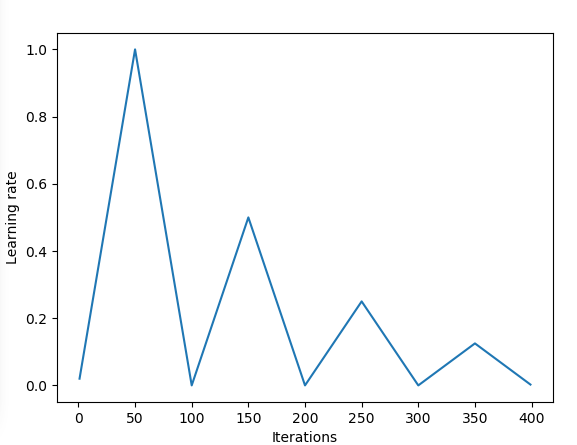
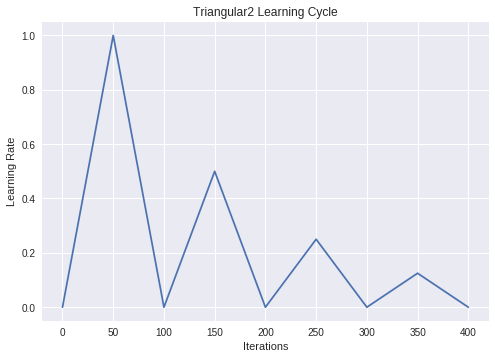
Create beautiful learning rate plots

Changed region(s): [[0.0, 0.0, 0.9697, 1.0], [0.303, 0.6435, 0.3636, 0.8579], [0.3636, 0.6128, 0.3939, 0.7354]]

diff --git a/chapters/02-Literature.tex b/chapters/02-Literature.tex
@@ -1,7 +1,7 @@
 %!TEX root = ../main.tex
 
 \chapter{Literature Review}\label{cha:literature}
-% Brief 1 para intro, maybe a lit review of lit reviews?
+
 Many extensive literature reviews and surveys have been written on the subject of deep learning.
 In 1987, Lippmann reviewed 6 of the most influential Neural Networks of the era \cite{Lippmann_1987}.
 More recently, an extensive Survey on Deep Learning in Medical Image Analysis was published \cite{Litjens_Kooi_Bejnordi_Setio_Ciompi_Ghafoorian_van_der_Laak_van_Ginneken_Sanchez_2017}.
@@ -27,11 +27,11 @@ In Figure \ref{fig:triangular_cyclical_learning_rate} two methods for cyclical l
 Leslie N. Smith propesed these in \cite{Smith_2015}.
 On the left plot min and max learning rate are kept the same, wheras on the right the difference is cut in half after each cycle.
 
-% TODO redo these figures myself
+
 \begin{figure}
     \centering
-    \includegraphics[width=0.4\textwidth]{./img/triangular.png}
-    \includegraphics[width=0.4\textwidth]{./img/triangular2.png}
+    \includegraphics[width=0.45\textwidth]{./img/triangular.png}
+    \includegraphics[width=0.45\textwidth]{./img/triangular2.png}
     \caption{Triangular and Triangular2 by Leslie N. Smith \cite{Smith_2015}.}
     \label{fig:triangular_cyclical_learning_rate}
 \end{figure}
@@ -42,6 +42,13 @@ Once the minimum is reached the learning resets to the maximum, there is no incr
 The authors also suggest making each cycle longer than the last by a constant factor they refer to as $T_{mult}$.
 
 %TODO figures for cosine lr
+\begin{figure}
+    \centering
+    \includegraphics[width=0.45\textwidth]{./img/tmul1.png}
+    \includegraphics[width=0.45\textwidth]{./img/tmul2.png}
+    \caption{Cosine Annealing with $T_{mult} = 1$ and $T_{mult} = 2$ by Loshchilov and Hutter \cite{Loshchilov_Hutter_2016}.}
+    \label{fig:cosine_annealing}
+\end{figure}
 
 % TODO snapshot ensambling
 People are well aware that ensemble methods produce great results.
